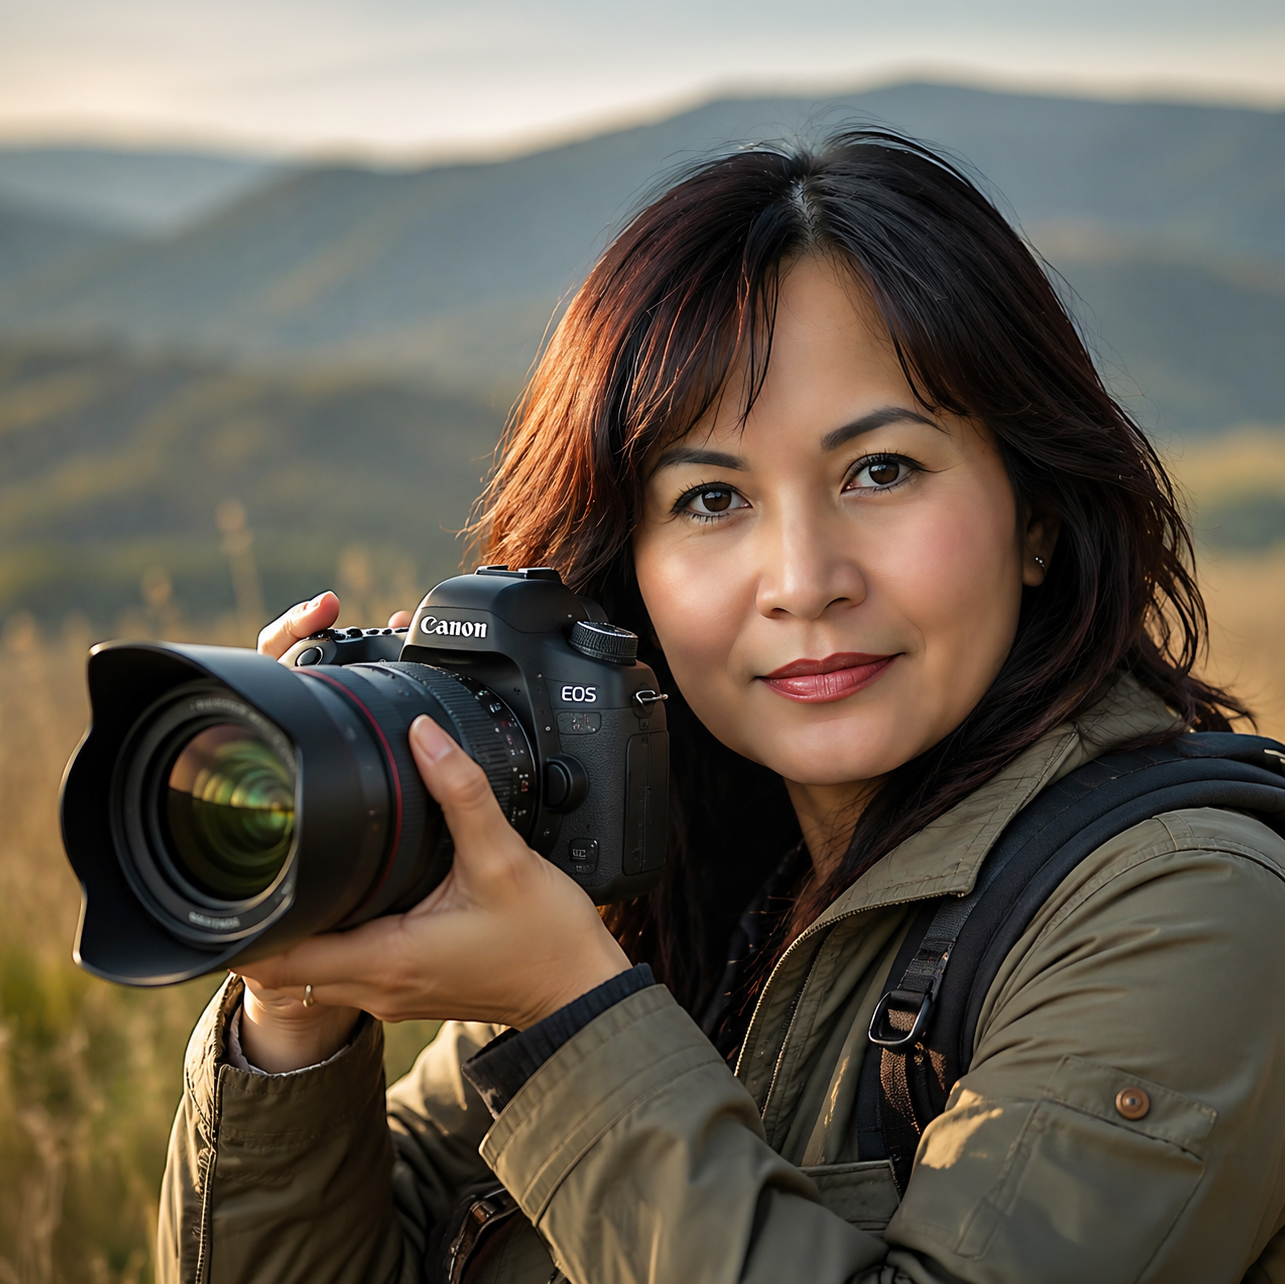
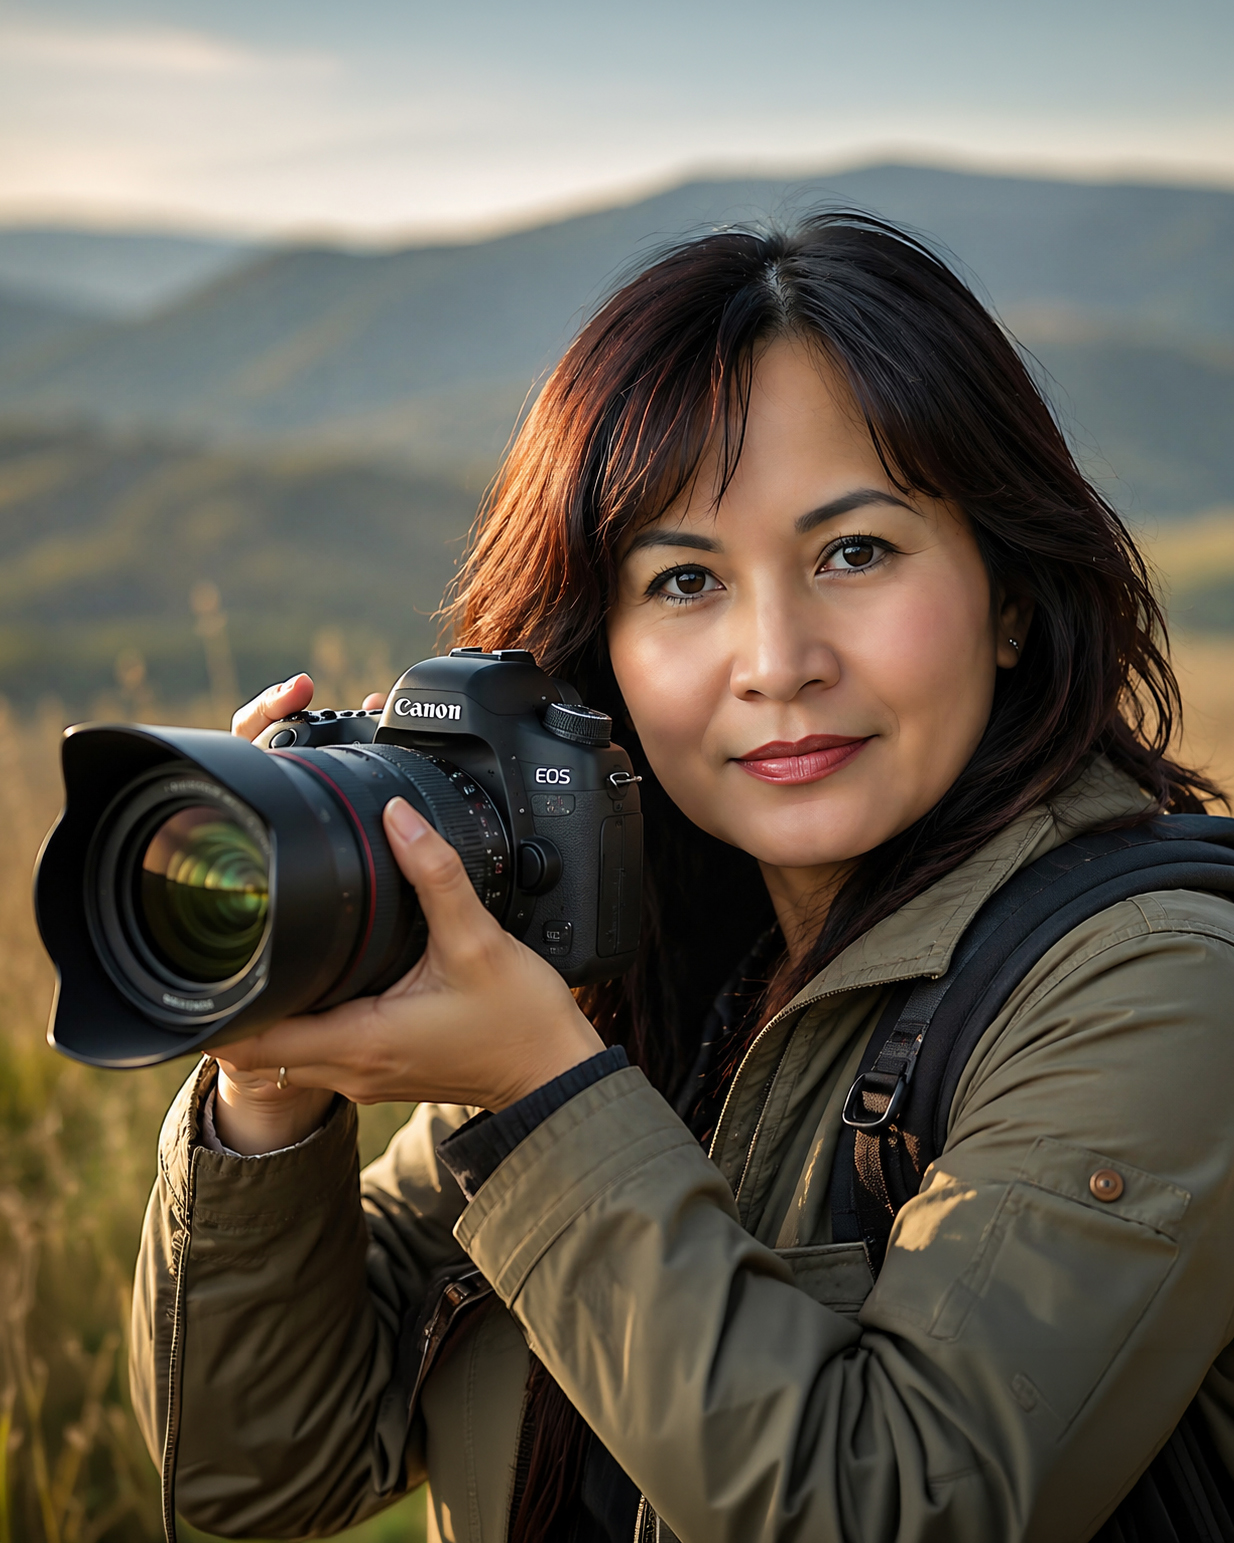
V2.1: refresh branding and replace demo news content

diff --git a/components/home-hero.tsx b/components/home-hero.tsx
@@ -23,7 +23,8 @@ export function HomeHero({
     "https://images.unsplash.com/photo-1506905925346-21bda4d32df4?auto=format&fit=crop&w=2000&q=80"
 
   return (
-    <section className="relative min-h-[72vh] md:min-h-[78vh] flex items-center justify-center overflow-hidden">
+    <section className="relative flex min-h-[72vh] items-center justify-center overflow-hidden md:min-h-[78vh]">
+      {/* Background photograph */}
       <div className="absolute inset-0">
         <Image
           src={heroImage}
@@ -41,14 +42,22 @@ export function HomeHero({
         <div className="absolute inset-0 bg-gradient-to-r from-zinc-950/20 via-transparent to-zinc-950/20" />
       </div>
 
+      {/* Hero content */}
       <div className="relative z-10 mx-auto max-w-5xl px-4 text-center sm:px-6 lg:px-8">
-        <p className="mb-6 text-sm font-semibold uppercase tracking-[0.4em] text-amber-400 sm:text-base md:text-lg">
-          {hero.eyebrow}
-        </p>
+        {/* Large HD Photography logo */}
+            <div className="mb-3 flex justify-center sm:mb-4">          <Image
+            src="/logo.png"
+            alt="HD Photography"
+            width={220}
+            height={90}
+            priority
+            className="h-auto w-[170px] drop-shadow-[0_3px_10px_rgba(0,0,0,0.7)] sm:w-[210px] md:w-[240px] lg:w-[260px]"          />
+        </div>
 
         <h1 className="font-playfair text-5xl font-bold leading-[1.05] text-white sm:text-6xl md:text-7xl lg:text-8xl">
           {hero.titleLine1}
           <br />
+
           <span className="text-amber-400">
             {hero.titleLine2}
           </span>
@@ -64,6 +73,7 @@ export function HomeHero({
             className="inline-flex items-center justify-center gap-2 rounded-full bg-amber-500 px-8 py-4 font-semibold text-zinc-950 transition-all duration-200 hover:-translate-y-0.5 hover:bg-amber-400 hover:shadow-lg hover:shadow-amber-500/20"
           >
             {hero.primaryButton}
+
             <ArrowRight className="h-4 w-4" />
           </Link>
 

diff --git a/locales/vi-home.ts b/locales/vi-home.ts
@@ -13,7 +13,7 @@ export const viHome = {
   showcase: {
     eyebrow: "BỘ ẢNH MỚI NHẤT",
     themeLabel: "Chủ đề",
-    viewFull: "Xem toàn bộ bộ sưu tập",
+    viewFull: "Xem đầy đủ bộ sưu tập",
     defaultPhotoAlt: "Ảnh",
   },
 
@@ -27,17 +27,16 @@ export const viHome = {
     title: "Hướng Dẫn Mới Nhất",
     viewAll: "Xem tất cả",
   },
+news: {
+  eyebrow: "Tin Mới",
+  title: "Tin Tức & Cập Nhật",
+  viewAll: "Xem tất cả",
+},
 
-  news: {
-    eyebrow: "Tin Mới",
-    title: "Tin Tức & Sự Kiện",
-    viewAll: "Xem tất cả",
-  },
-
-  callToAction: {
-    title: "Sẵn sàng chia sẻ góc nhìn của bạn?",
-    description:
-      "Hãy tham gia cộng đồng những người yêu nhiếp ảnh, cùng gặp gỡ hàng tháng, tham dự workshop, trao đổi tác phẩm và tôn vinh những góc nhìn độc đáo của mỗi người.",
+ callToAction: {
+  title: "Muốn trao đổi về nhiếp ảnh?",
+  description:
+    "Nếu bạn muốn chia sẻ ý tưởng, trao đổi về nhiếp ảnh, hợp tác hoặc đơn giản chỉ muốn gửi lời chào, tôi rất vui được nghe từ bạn.",
     button: "Liên Hệ",
   },
 } as const

diff --git a/locales/en-home.ts b/locales/en-home.ts
@@ -30,15 +30,15 @@ export const enHome = {
   },
 
   news: {
-    eyebrow: "Stay Updated",
-    title: "News & Events",
-    viewAll: "All news",
-  },
+  eyebrow: "Latest News",
+  title: "News & Updates",
+  viewAll: "View All",
+},
 
   callToAction: {
-    title: "Ready to share your vision?",
-    description:
-      "Join a community of photographers who are as passionate about the art as you are. Monthly meetups, workshops, critique sessions, and a showcase that celebrates every perspective.",
-    button: "Get in Touch",
-  },
+  title: "Let's Talk Photography",
+  description:
+    "If you'd like to share ideas, talk about photography, explore a collaboration, or simply say hello, I'd be delighted to hear from you.",
+  button: "Contact Me",
+},
 } as const

diff --git a/content/news/bich-lien-phan-guest-photographer.md b/content/news/bich-lien-phan-guest-photographer.md
@@ -1,0 +1,46 @@
+---
+title: "Guest Photographer Spotlight — Bích Liên Phan"
+date: "2026-08-19"
+featuredImage: "/uploads/members/bichlien-phan/profile.jpg"
+excerpt: "HD Photography welcomes Bích Liên Phan as a guest photographer, featuring her gentle approach to flowers, landscapes, nature, travel, and everyday moments."
+category: "Guest Photographer"
+---
+
+HD Photography is pleased to introduce **Bích Liên Phan** as a featured guest photographer.
+
+Her photographs bring a gentle and thoughtful perspective to flowers, landscapes, nature, travel, and the quiet beauty found in everyday life.
+
+## A Personal Way of Seeing
+
+Photography is more than recording a place or subject. Each photographer brings a different way of seeing — shaped by experience, emotion, light, color, and the moments that attract their attention.
+
+Bích Liên's work reflects that personal approach through carefully composed images and a strong appreciation for natural beauty.
+
+## Flowers and Nature
+
+Flowers are an important part of her photography.
+
+Through color, form, light, and detail, familiar subjects become opportunities to explore subtle changes in mood and atmosphere.
+
+Her nature photography extends that same sensitivity to landscapes and the environment around her.
+
+## Landscape and Travel
+
+Travel provides new places, changing light, and unexpected moments to photograph.
+
+From broader landscapes to smaller details discovered along the way, these images preserve both the character of a place and the photographer's personal experience of being there.
+
+## A Guest Photographer on HD Photography
+
+The Guest Photographers section of HD Photography was created to share the work of photographers whose images and perspectives I appreciate.
+
+Rather than presenting every photographer in the same way, each profile provides a personal introduction followed by their own photographic collection.
+
+Bích Liên Phan's profile currently includes work across:
+
+- Flowers
+- Landscape
+- Nature
+- Travel
+
+Visitors can explore her full profile and photography through the **Guest Photographers** section of HD Photography.

diff --git a/content/news/hd-photography-v2-1.md b/content/news/hd-photography-v2-1.md
@@ -1,0 +1,45 @@
+---
+title: "HD Photography V2.1 — A Fresh New Look"
+date: "2026-08-21"
+featuredImage: "/logo.png"
+excerpt: "HD Photography has been refreshed with a cleaner design, improved showcases, bilingual navigation, guest photographer profiles, and a new HĐ Photography identity."
+category: "Site Update"
+---
+
+HD Photography has been refreshed with a new design and a more personal direction.
+
+The goal of **HD Photography V2.1** is simple: keep the photographs at the center while making the site easier and more enjoyable to explore.
+
+## A More Personal Photography Site
+
+HD Photography is now presented as my personal photography space — a place to share photographs from nature, travel, landscapes, and everyday life.
+
+The site also provides a place to introduce selected **guest photographers** whose work and perspectives I admire.
+
+## A New HĐ Photography Identity
+
+The familiar HD Photography logo has also been updated with a small personal touch.
+
+The letter **D** has become the Vietnamese letter **Đ**, creating the new **HĐ Photography** mark.
+
+**HĐ** quietly represents **Hồng Đức**, while still keeping the familiar identity of HD Photography.
+
+## Photography Showcases
+
+The Showcase section has been redesigned so collections are no longer limited to months or years.
+
+A showcase can now have its own descriptive name and date, making it easier to present photographs as complete visual stories.
+
+New showcases are displayed automatically with the most recent collection first.
+
+## Guest Photographers
+
+Guest photographer pages have also been simplified.
+
+The Guest Photographers gallery now focuses on the photographer's portrait and name, inviting visitors to open the individual profile to learn more about the photographer, their specialties, and their work.
+
+## English & Vietnamese
+
+HD Photography continues to support both **English and Vietnamese**, with navigation and major site sections available in either language.
+
+This update is another step in making HD Photography a simple, personal place to share photographs, journeys, and the stories behind them.

diff --git a/content/news/summer-photo-walk-showcase.md b/content/news/summer-photo-walk-showcase.md
@@ -1,0 +1,37 @@
+---
+title: "New Showcase — Summer Photo Walk"
+date: "2026-08-20"
+featuredImage: ""
+excerpt: "A new HD Photography showcase brings together summer light, coastal landscapes, and quiet portrait moments from a recent photo walk."
+category: "Showcase"
+---
+
+A new photography collection has been added to HD Photography:
+
+## Summer Photo Walk
+
+This showcase brings together photographs made during a summer outing, combining coastal scenery, bright California light, and portrait moments along the way.
+
+The collection reflects one of the things I enjoy most about photography — moving between landscape, nature, travel, and people without limiting a photographic journey to a single subject.
+
+## Summer Light
+
+Strong summer sunlight can be challenging, but it can also create vivid colors, deep contrast, and a distinctive sense of place.
+
+The photographs in this collection make use of that bright light rather than trying to hide it.
+
+## Coast and Landscape
+
+Several images focus on the coastline, where cliffs, beaches, turquoise water, and changing terrain create naturally dramatic compositions.
+
+These photographs are also a reminder that familiar places can reveal something different each time we return with a camera.
+
+## Portraits Along the Journey
+
+The showcase also includes environmental portraits made within the landscape.
+
+Rather than separating the person from the surroundings, these photographs allow the landscape, light, color, and subject to become part of the same visual story.
+
+## View the Complete Showcase
+
+The full **Summer Photo Walk** collection is available in the Photography Showcases section of HD Photography.
